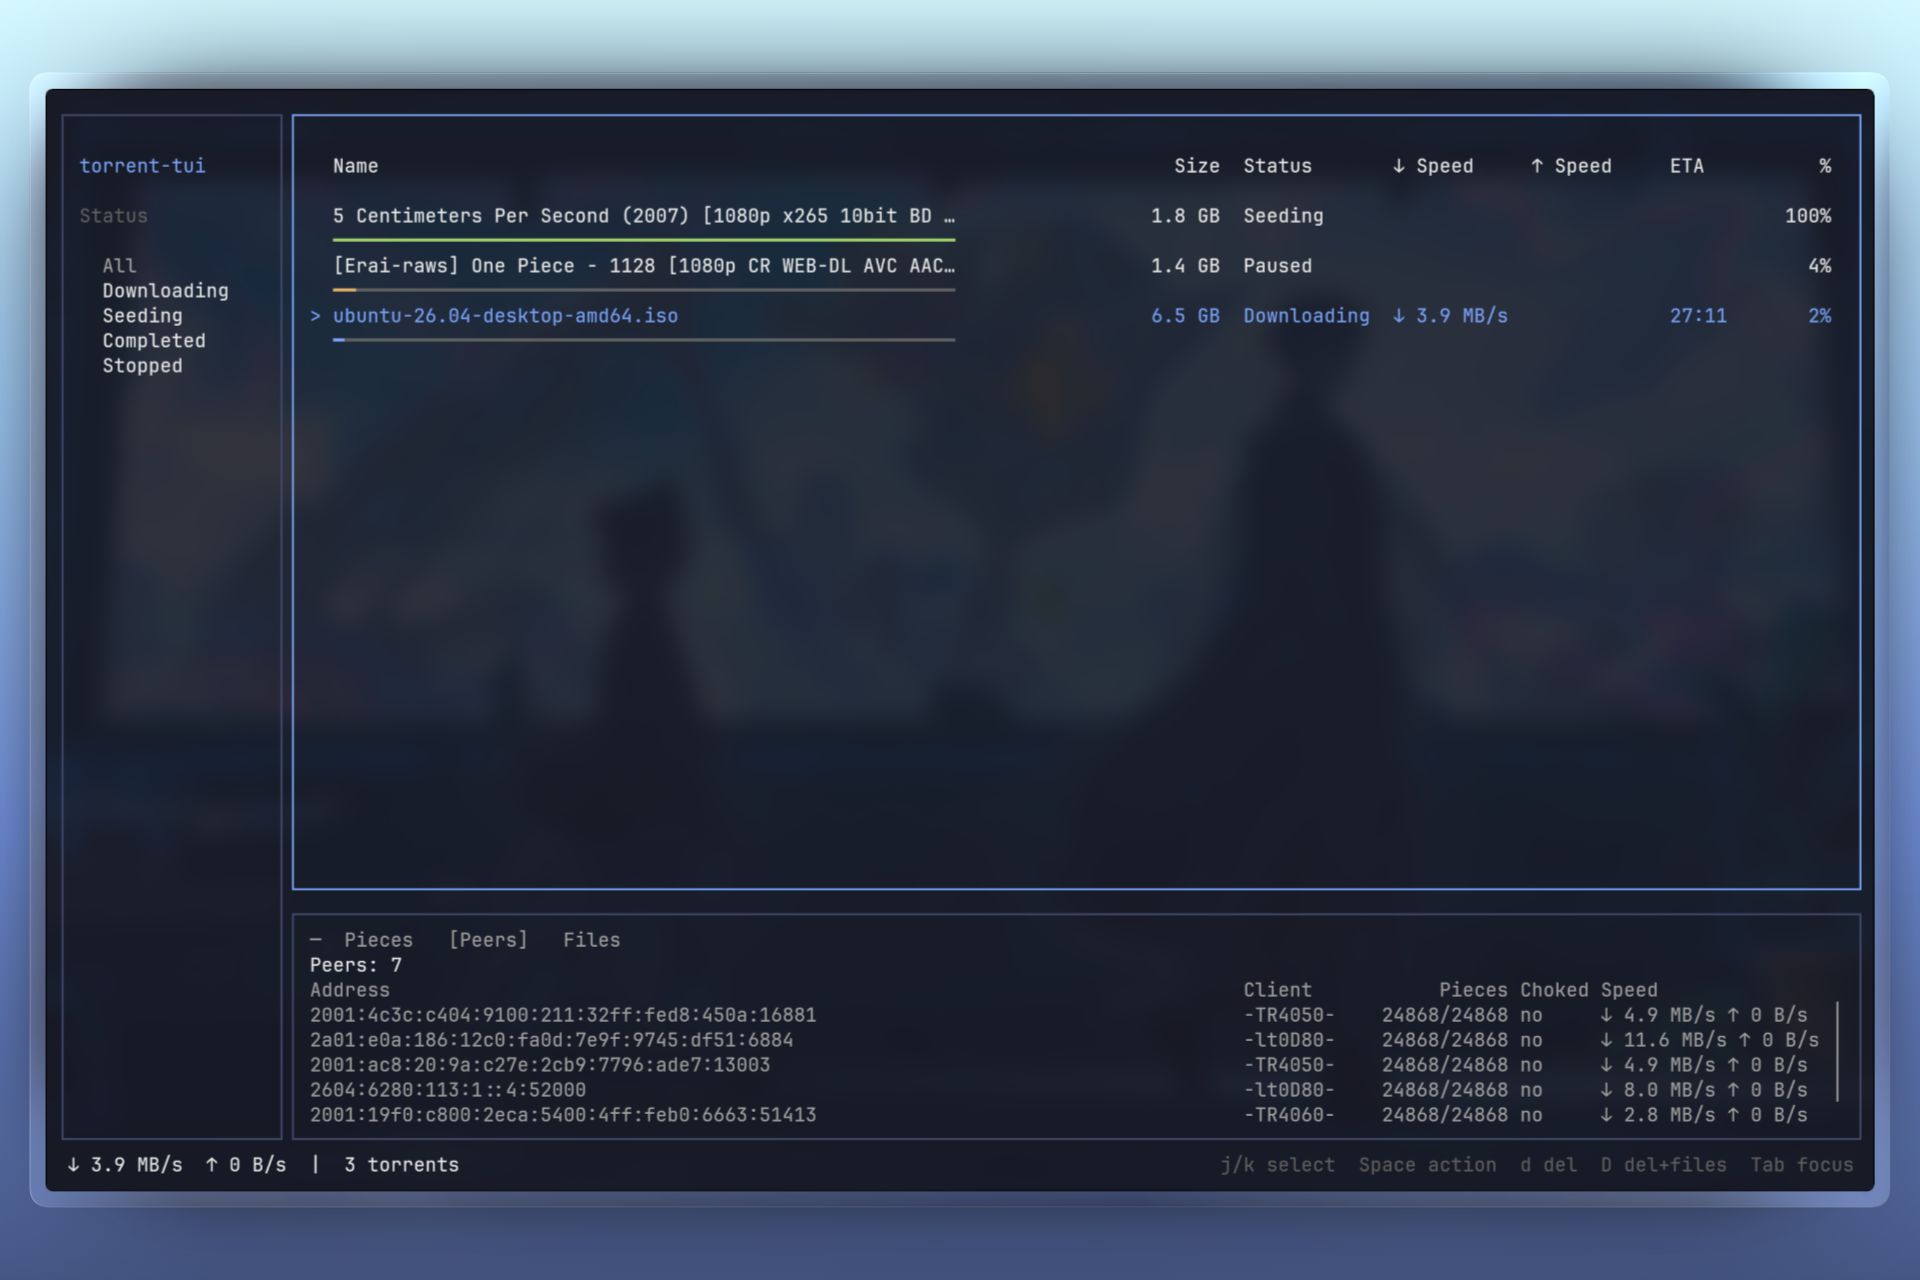
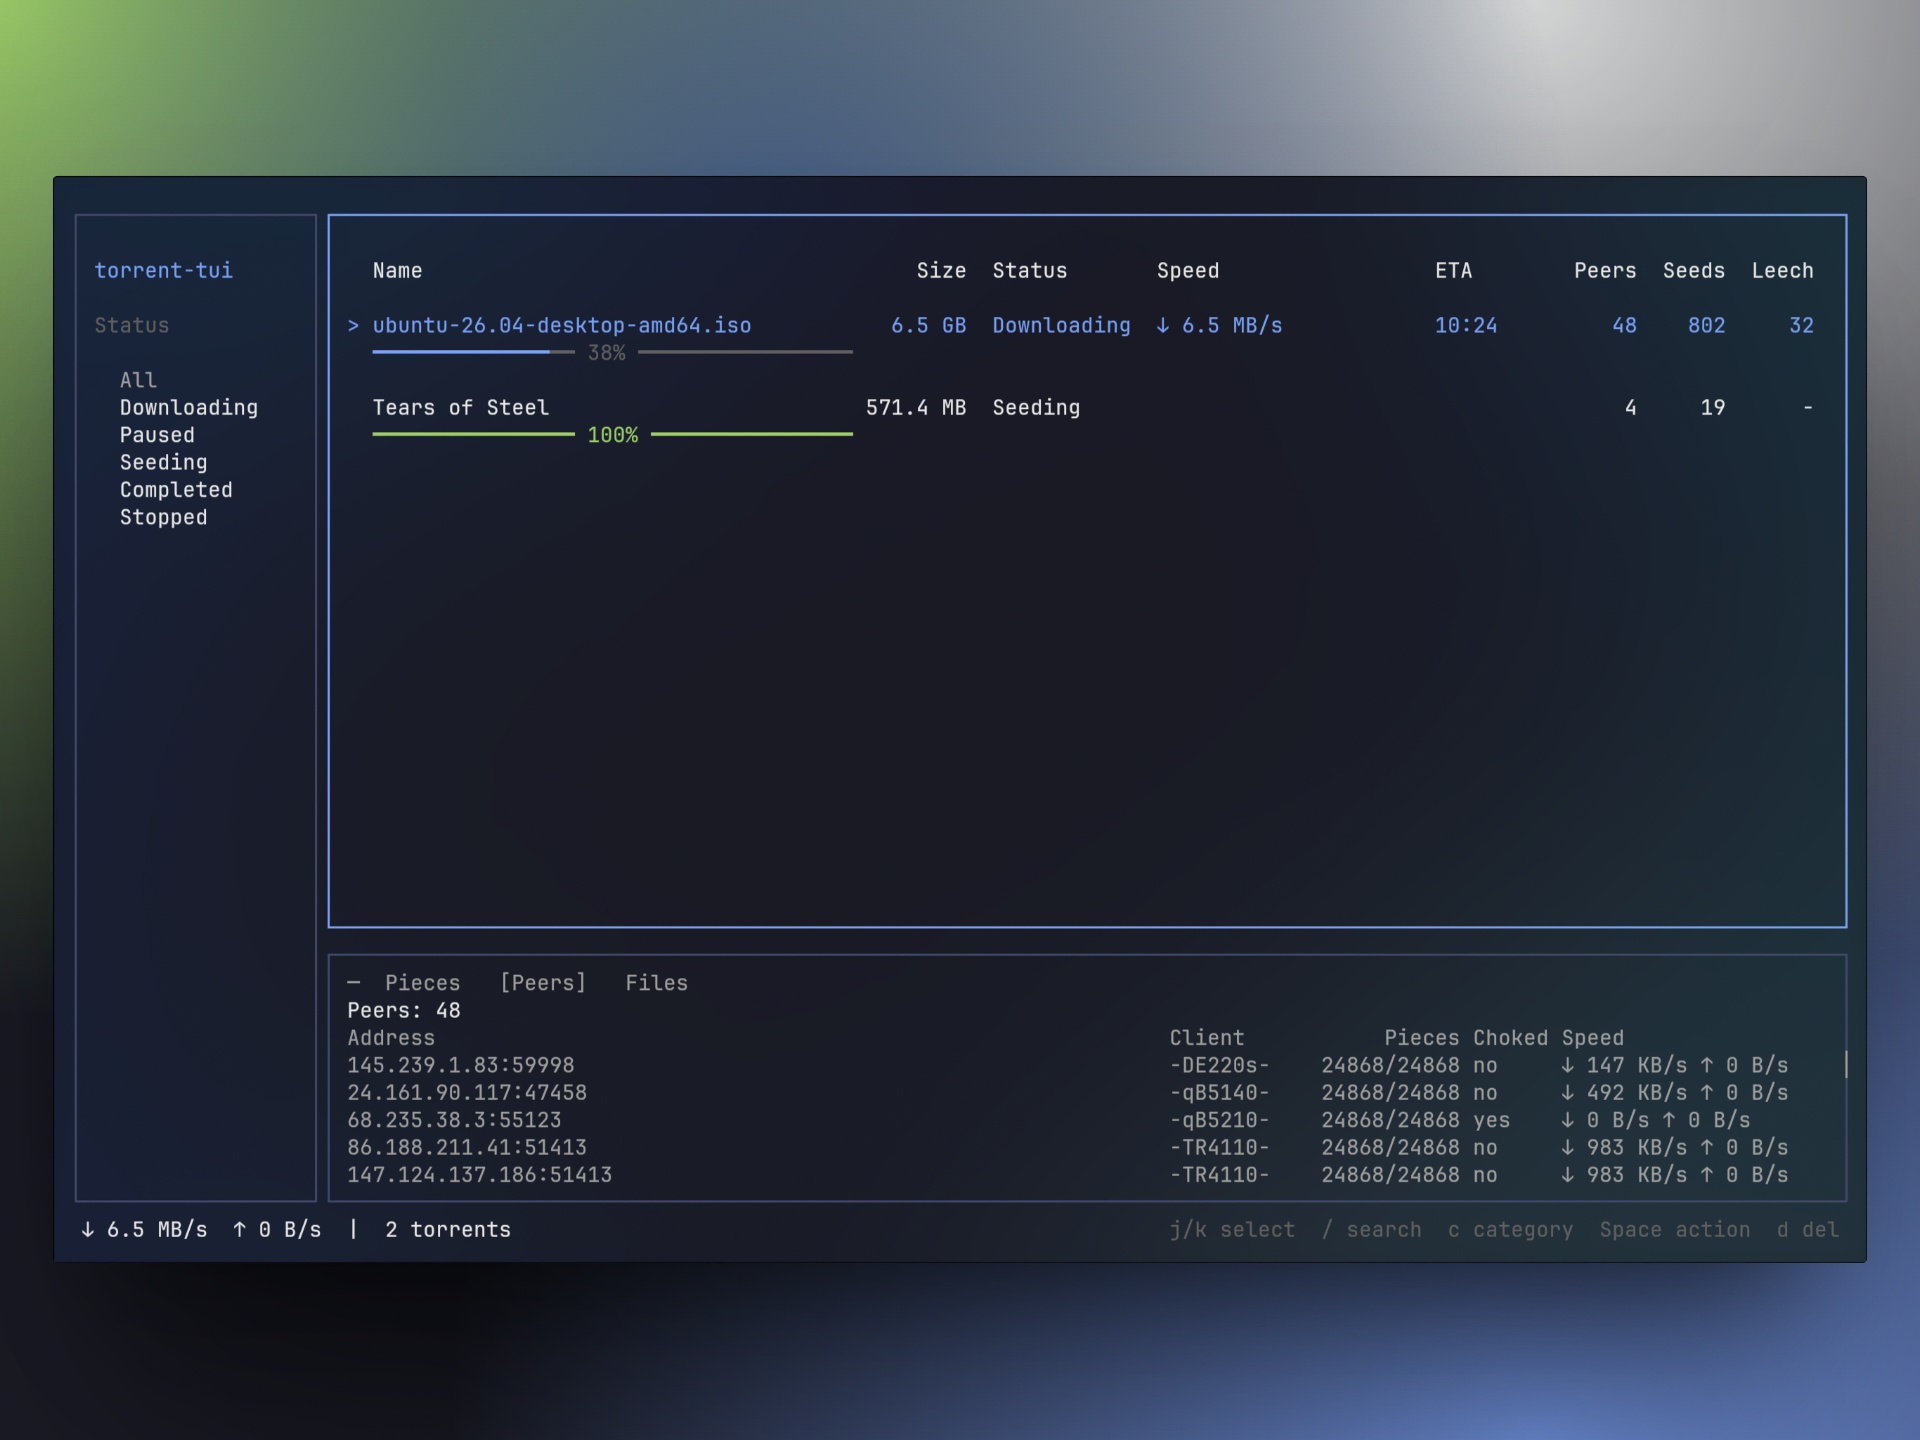
chore: bump version to 0.1.0

diff --git a/README.md b/README.md
@@ -54,13 +54,23 @@ From inside the app:
 | `j` / `k` or arrow keys | Move selection |
 | `Tab` / `Shift+Tab` | Change focus |
 | `a` | Add a `.torrent` file or magnet link |
-| `/` in add dialog | Type a magnet link manually |
-| `Space` | Pause or resume the selected torrent |
-| `d` | Remove the selected torrent |
-| `D` | Remove the selected torrent and downloaded files |
+| `/` | Search torrent names |
+| `Space` on the torrent table | Pause, resume, or restart the selected torrent |
+| `c` on the torrent table | Change the selected torrent's category |
+| `d` on the torrent table | Remove the selected torrent |
+| `D` on the torrent table | Remove the selected torrent and downloaded files |
+| `m` on the sidebar | Manage categories |
 | `q` | Quit |
 
-The detail panel has `Pieces`, `Peers`, and `Files` tabs. Focus it with `Tab`, then use `h` / `l`, `[` / `]`, or left/right arrows to switch tabs. Multi-file torrents open a file picker before download; use `Space` to toggle a file, `a` to select all, `n` to select none, and `Enter` to confirm.
+Search filters the torrent table by name. Press `/` to start typing, `Enter` to keep the current filter, or `Esc` to clear it.
+
+The add dialog has `Files` and `Magnet` tabs. Use `Tab` to switch tabs, `j` / `k` or arrow keys to choose a `.torrent` file, and `Enter` to add it. In the `Magnet` tab, paste or type a magnet URI and press `Enter` to submit it. After adding a torrent, choose a category before the download starts; categories can route torrents to preset save paths.
+
+Category dialogs use `j` / `k` or arrow keys to move and `Enter` to choose. Press `n` to create a category, `c` to reassign the selected torrent from the table, and `m` from the sidebar to manage categories. In the category manager, use `e` or `Enter` to edit and `d` to delete. In the category editor, type the name, press `b` to browse for a save path, `x` to clear the path, and `Enter` to save. The directory picker uses `Enter` to open a folder, `Space` to select the current folder, `Backspace` or left arrow to go up, and `n` to create a folder under your home directory.
+
+The detail panel has `Pieces`, `Peers`, and `Files` tabs. Focus it with `Tab`, then use `h` / `l`, `[` / `]`, or left/right arrows to switch tabs. In the `Files` tab, use `j` / `k` to move through long file lists.
+
+Multi-file torrents open a file picker before download. Use `Space` to toggle a file, `a` to select all, `n` to select none, and `Enter` to confirm. Pressing `Esc` accepts all files and closes the picker.
 
 ## Commands
 
@@ -110,6 +120,8 @@ Default settings:
 	"downloadPath": "~/Downloads",
 	"maxConnections": 50,
 	"torrentFolder": "~/Downloads",
+	"categories": [],
+	"defaultCategoryId": null,
 	"downloadRateLimitBps": 0,
 	"uploadRateLimitBps": 0,
 	"enableWebSeeds": true,
@@ -164,6 +176,8 @@ The `Downloading` sidebar filter includes queued, checking, connecting, download
 | --- | --- | --- |
 | `downloadPath` | Where torrent payload files are written and verified. | On torrent add, resume, verify, and startup restore. |
 | `torrentFolder` | Folder shown by the add-torrent dialog. | When you open the add dialog. |
+| `categories` | Save-path presets shown during add and category reassignment. | When adding torrents, reassigning categories, and restoring sessions. |
+| `defaultCategoryId` | Optional category preselected in the add flow. | When choosing a category for a new torrent. |
 | `maxConnections` | Maximum number of peers the client will connect to per torrent. | During peer discovery and download. |
 | `downloadRateLimitBps` | Download speed cap in bytes per second. `0` means unlimited. | During downloads. |
 | `uploadRateLimitBps` | Upload speed cap in bytes per second. `0` means unlimited. | During uploads to peers. |
@@ -181,6 +195,7 @@ The `Downloading` sidebar filter includes queued, checking, connecting, download
 
 - Use a fast local SSD for `downloadPath` if you want quicker verification and fewer stalls on reopen.
 - Point `torrentFolder` at the directory where you keep `.torrent` files so adding torrents is faster.
+- Use categories when different torrents should land in different save paths. A category without a save path falls back to `downloadPath`.
 - Lower `maxConnections` if your network or CPU struggles with many peers; raise it if you want more parallel peer selection.
 - Use `downloadRateLimitBps` and `uploadRateLimitBps` when you need bandwidth caps.
 - Set `encryption` to `required` only if you want to reject plaintext peers.
@@ -205,6 +220,8 @@ The `Downloading` sidebar filter includes queued, checking, connecting, download
 | Magnet links | Available for v1 magnets with tracker, explicit-peer, or DHT discovery |
 | Detail panel | Pieces, peers, and files tabs |
 | File selection | Available for multi-file torrents before download |
+| Search | Name-only torrent table filtering |
+| Categories | Save-path presets, add-flow selection, reassignment, and management dialogs |
 | Engine controls | Download/upload rate limits and max peer connections |
 | Peer discovery | Trackers, DHT, PEX, and LSD |
 | Web seeds | BEP 19 HTTP web seeds |
